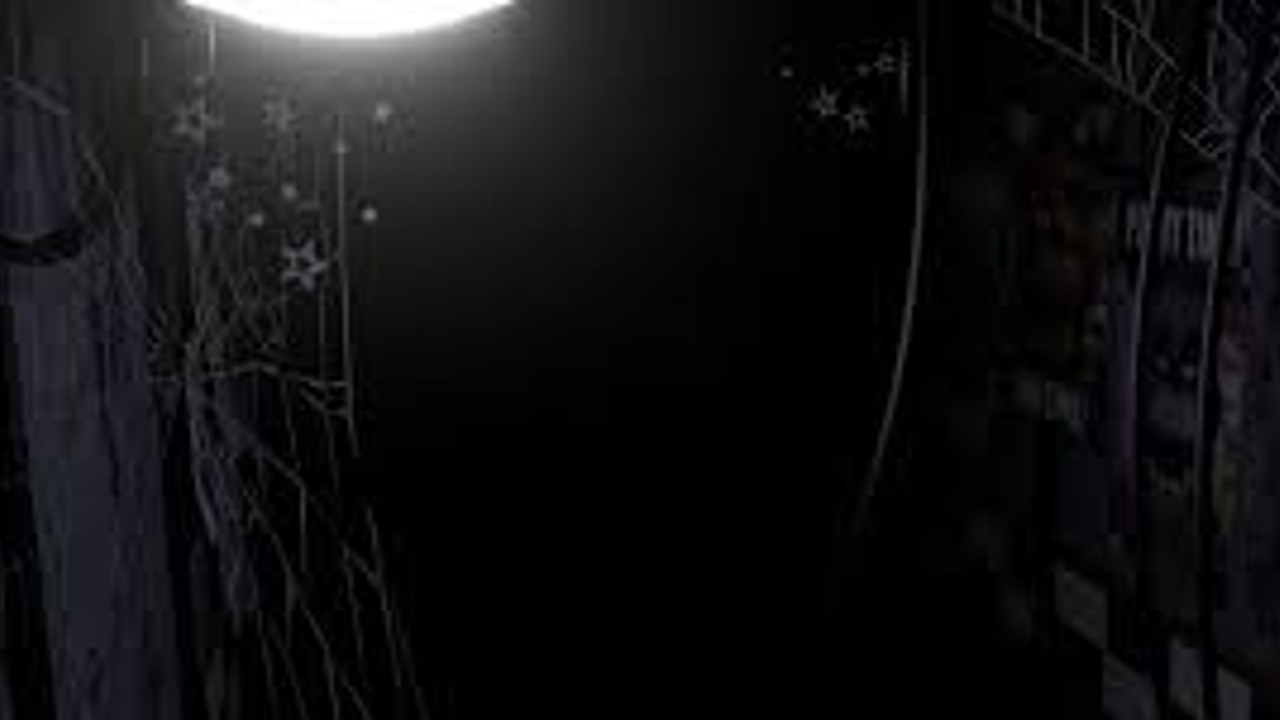
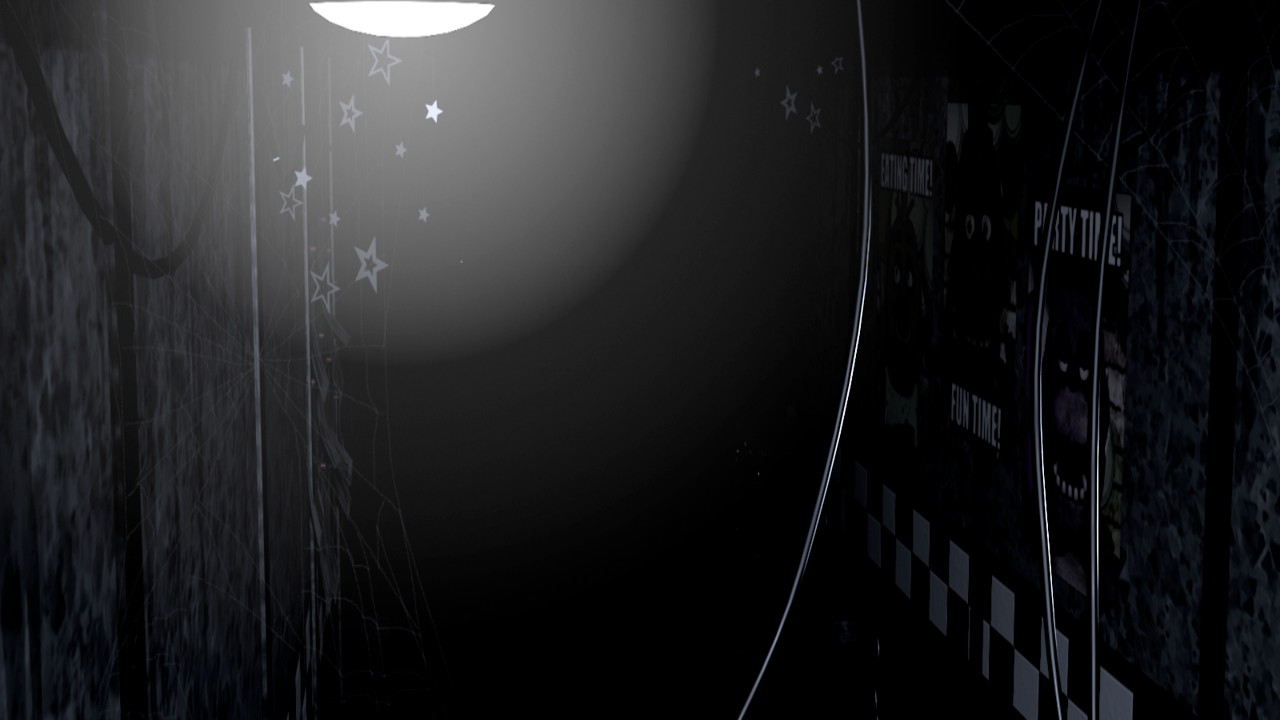
fixed weird camera images

diff --git a/src/Player.java b/src/Player.java
@@ -44,7 +44,7 @@ public class Player {
             Cam1A = ImageIO.read(new File("images//Cam1A.jpg"));
             Cam1B = ImageIO.read(new File("images//Cam1B.jpg"));
             Cam1C = ImageIO.read(new File("images//Cam1C.jpg"));
-            Cam2A = ImageIO.read(new File("images//Cam2A.PNG"));
+            Cam2A = ImageIO.read(new File("images//Cam2A.jpg"));
             Cam2B = ImageIO.read(new File("images//Cam2B.jpg"));
             Cam3 = ImageIO.read(new File("images//Cam3.jpg"));
             Cam4A = ImageIO.read(new File("images//Cam4A.jpg"));
